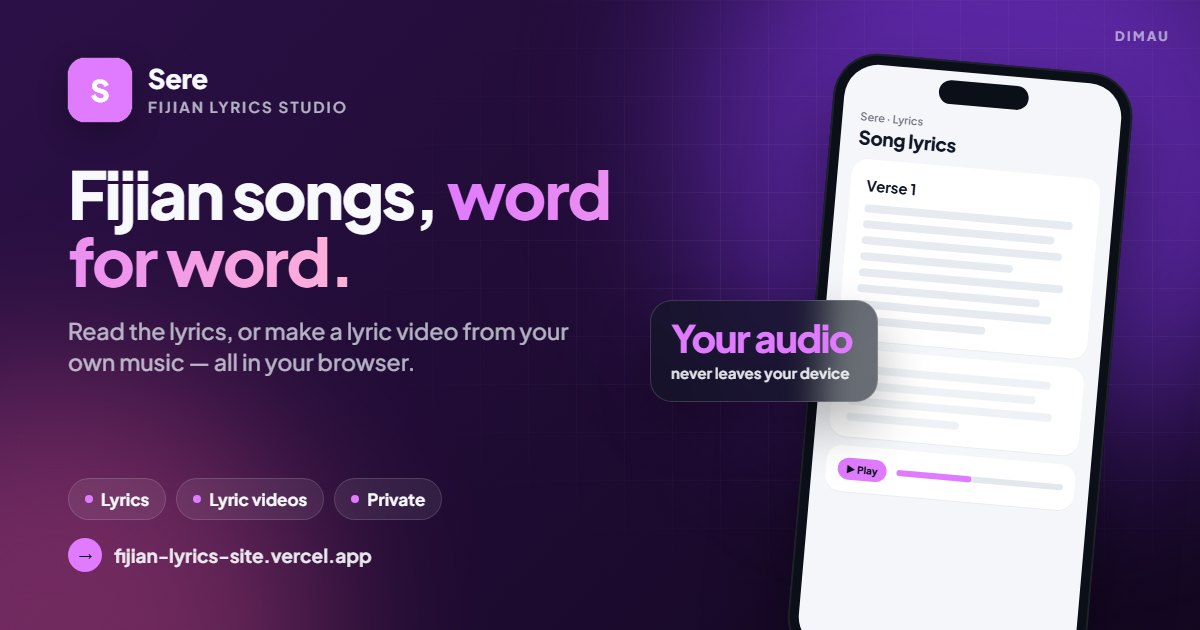
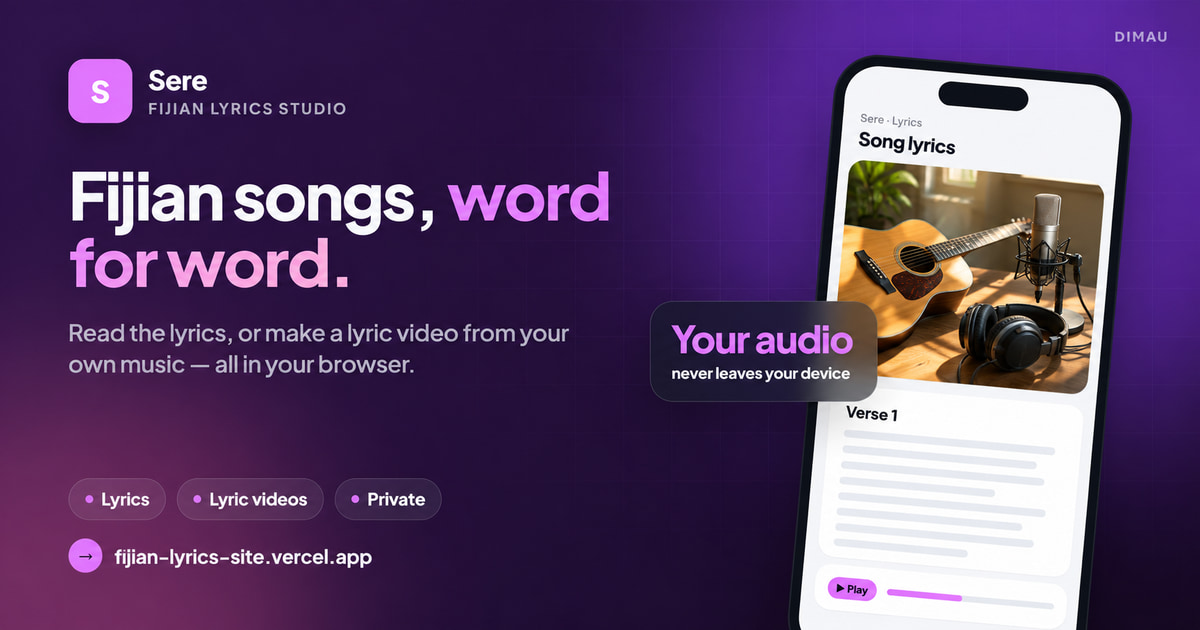
Use photorealistic scenes in the link-preview phone

diff --git a/TRACKER.md b/TRACKER.md
@@ -6,9 +6,9 @@ Canonical repository and existing public tool only; preserve all songs, local me
 ## In progress — claim a task here BEFORE you start it
 | Started | AI | Task | Branch / PR |
 |---|---|---|---|
-| 2026-11-05 | Codex | Photorealistic phone-screen images in the existing link preview | `codex/photorealistic-phone-previews-20261105` |
 
 ## Done — newest first
+- 2026-11-05 — Codex — Replaced the phone-screen imagery in the existing link-preview JPEG with generated photorealistic illustrative scenes. Existing image URLs and 1200×630 JPEG format are retained. Image decoding/dimensions, asset hashes and source whitespace checks pass. Prompt and provenance are recorded in docs/phone-preview-photography-20261105.json; hosted release evidence is recorded on this image-only revision.
 - 2026-11-04 — Codex — Phone inspection found a long public song-source URL extending the library to 478px at a 390px viewport. Scoped source-link wrapping keeps the address readable within the page; lyric text, source addresses and all app behavior remain unchanged.
 - 2026-11-04 — Codex — Added studio-specific public preview text and canonical address, reusing Sere’s existing artwork. Root and studio body bytes, songs, local media, transcription and export logic remain identical.
 - 2026-11-04 — Codex — Completed scoped public preview metadata correction. Completed canonical and matching X preview details while retaining the original app-specific 1200 by 630 artwork and all page body bytes. Source whitespace checks pass; host gates and exact hosted evidence follow on this revision’s PR.
